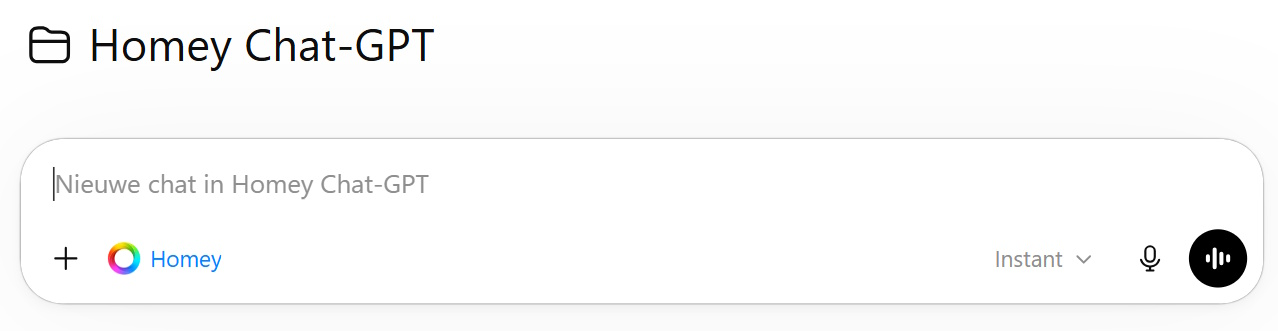
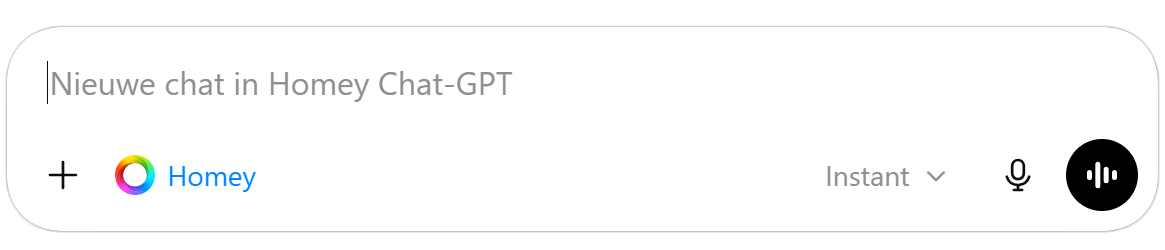
Wat je hebt gemist pagina aangemaakt.

diff --git a/wat-je-hebt-gemist.html b/wat-je-hebt-gemist.html
@@ -1,0 +1,380 @@
+<!doctype html>
+<html lang="nl">
+<head>
+  <meta charset="utf-8">
+  <meta name="viewport" content="width=device-width, initial-scale=1">
+  <meta name="hv-schema-type" content="techarticle">
+
+  <title>Wat je hebt gemist | huisvanvandaag.nl</title>
+  <meta name="description" content="Een overzicht van populaire Homey-artikelen, DIY-projecten, tutorials en slimme woningideeën op Huisvanvandaag.">
+  <link rel="preconnect" href="https://fonts.googleapis.com">
+  <link rel="preconnect" href="https://fonts.gstatic.com" crossorigin>
+  <link href="https://fonts.googleapis.com/css2?family=Inter:wght@400;500;600;700;800;900&display=swap" rel="stylesheet">
+  <link rel="icon" type="image/png" href="assets/favicon.png">
+  <link rel="stylesheet" href="styles.css">
+  <style>
+    .article-grid {
+      display: grid;
+      grid-template-columns: repeat(auto-fit, minmax(280px, 1fr));
+      gap: 1.4rem;
+      margin-top: 1.5rem;
+    }
+
+    .article-card {
+      display: flex;
+      flex-direction: column;
+      background: rgba(255,255,255,0.04);
+      border-radius: 22px;
+      overflow: hidden;
+      border: 1px solid rgba(255,255,255,0.08);
+      height: 100%;
+    }
+
+    .article-card-image img {
+      width: 100%;
+      aspect-ratio: 16 / 9;
+      object-fit: cover;
+      display: block;
+    }
+
+    .article-card-body {
+      padding: 1.1rem;
+      display: flex;
+      flex-direction: column;
+      gap: .9rem;
+      height: 100%;
+    }
+
+    .article-card h2 {
+      margin: 0;
+      font-size: 1.3rem;
+      line-height: 1.25;
+    }
+
+    .article-card h2 a {
+      color: inherit;
+      text-decoration: none;
+    }
+
+    .article-card .meta-list {
+      gap: .5rem;
+    }
+
+    .article-card .button-secondary {
+      margin-top: auto;
+      align-self: flex-start;
+    }
+
+    .category-intro {
+      max-width: 820px;
+      margin-top: 2.6rem;
+    }
+
+    .category-intro:first-child {
+      margin-top: 0;
+    }
+
+    .category-intro h2 {
+      margin-bottom: .35rem;
+    }
+
+    .quick-links {
+      display: flex;
+      flex-wrap: wrap;
+      gap: .75rem;
+      margin-top: 1.4rem;
+    }
+  </style>
+<script src="/js/global-schema.js"></script>
+</head>
+<body>
+  <div id="site-header"></div>
+
+  <main>
+    <section class="page-hero">
+      <div class="container two-col">
+        <div>
+          <div class="breadcrumbs">
+            <a href="index.html">Home</a>
+            <span>•</span>
+            <span>Wat je hebt gemist</span>
+          </div>
+          <span class="eyebrow">Startpunt</span>
+          <h1>Wat je hebt gemist</h1>
+          <p class="lead muted">
+            Even niet alles gevolgd? Geen probleem. Op deze pagina vind je een compacte selectie van Homey-artikelen, DIY-projecten, tutorials en slimme woningideeën die goed laten zien waar Huisvanvandaag om draait.
+            <br><br>
+            Begin bij de basis, duik in een concreet project of klik door naar een onderwerp dat past bij jouw huis. Zo ben je snel weer bij zonder de hele website te hoeven doorzoeken.
+          </p>
+
+          <div class="quick-links">
+            <a class="button-secondary" href="#homey">Homey &amp; slimme woning</a>
+            <a class="button-secondary" href="#diy">DIY-projecten</a>
+            <a class="button-secondary" href="#tutorials">Tutorials &amp; flows</a>
+            <a class="button-secondary" href="#inspiratie">Inspiratie</a>
+          </div>
+        </div>
+
+        <div class="panel">
+          <h3>Wat je hier vindt</h3>
+          <div class="check-list">
+            <div class="check-item">
+              <span class="check-mark">✓</span>
+              <div><strong>Een snelle herstart</strong><br><span class="muted">Handig als je de nieuwsbrief al een tijd niet hebt ontvangen.</span></div>
+            </div>
+            <div class="check-item">
+              <span class="check-mark">✓</span>
+              <div><strong>Breed gekozen</strong><br><span class="muted">Van Homey en ChatGPT tot CO₂, radar, energieflows en Homeyduino.</span></div>
+            </div>
+            <div class="check-item">
+              <span class="check-mark">✓</span>
+              <div><strong>Direct doorklikbaar</strong><br><span class="muted">Elke kaart brengt je naar een artikel, project of overzichtspagina.</span></div>
+            </div>
+          </div>
+        </div>
+      </div>
+    </section>
+
+    <section class="section-tight" id="homey">
+      <div class="container">
+        <div class="category-intro">
+          <span class="eyebrow">Homey &amp; slimme woning</span>
+          <h2>Begin bij de slimme basis</h2>
+          <p class="muted">Voor veel lezers begint Huisvanvandaag bij Homey: flows, apparaten, automatiseringen en de vraag hoe je een woning slimmer laat aanvoelen zonder het onnodig ingewikkeld te maken.</p>
+        </div>
+
+        <div class="article-grid">
+          <article class="article-card">
+            <a class="article-card-image" href="homey-chatgpt.html">
+              <img src="assets/header/homey-chatgpt-hero.png" alt="Homey en ChatGPT als nieuwe manier om je slimme woning aan te sturen" loading="lazy">
+            </a>
+            <div class="article-card-body">
+              <span class="eyebrow">Homey • ChatGPT</span>
+              <h2><a href="homey-chatgpt.html">Homey nu beschikbaar in ChatGPT</a></h2>
+              <p class="muted">Wat als je je slimme woning niet meer hoeft te programmeren, maar er gewoon mee kunt praten? Dit artikel laat zien waarom Homey en ChatGPT samen interessant zijn.</p>
+              <div class="meta-list">
+                <span class="meta-pill">Categorie: Smart home</span>
+                <span class="meta-pill">Platform: Homey / ChatGPT</span>
+              </div>
+              <a class="button-secondary" href="homey-chatgpt.html">Lees artikel</a>
+            </div>
+          </article>
+
+          <article class="article-card">
+            <a class="article-card-image" href="homey.html">
+              <img src="assets/header/homey-uitgelegd-varianten-overzicht.jpg" alt="Overzicht van Homey artikelen en slimme woning toepassingen" loading="lazy">
+            </a>
+            <div class="article-card-body">
+              <span class="eyebrow">Homey</span>
+              <h2><a href="homey.html">Homey uitgelegd</a></h2>
+              <p class="muted">Een handig startpunt als je meer wilt halen uit Homey, flows en slimme automatiseringen in huis.</p>
+              <div class="meta-list">
+                <span class="meta-pill">Categorie: Kennisbank</span>
+                <span class="meta-pill">Platform: Homey</span>
+              </div>
+              <a class="button-secondary" href="homey.html">Bekijk overzicht</a>
+            </div>
+          </article>
+
+          <article class="article-card">
+            <a class="article-card-image" href="zonne-flows-homey-tutorial.html">
+              <img src="assets/header/zonne-flows-homey-hero.jpg" alt="Homey flow voor slimmer omgaan met zonnestroom" loading="lazy">
+            </a>
+            <div class="article-card-body">
+              <span class="eyebrow">Energie • Homey</span>
+              <h2><a href="zonne-flows-homey-tutorial.html">Energie-automatiseringen die daadwerkelijk iets besparen</a></h2>
+              <p class="muted">Gebruik Homey niet alleen voor gemak, maar ook om slimmer om te gaan met momenten waarop zonnestroom beschikbaar is.</p>
+              <div class="meta-list">
+                <span class="meta-pill">Categorie: Tutorial</span>
+                <span class="meta-pill">Platform: Homey</span>
+              </div>
+              <a class="button-secondary" href="zonne-flows-homey-tutorial.html">Bekijk tutorial</a>
+            </div>
+          </article>
+        </div>
+      </div>
+    </section>
+
+    <section class="section-tight" id="diy">
+      <div class="container">
+        <div class="category-intro">
+          <span class="eyebrow">DIY &amp; Homeyduino</span>
+          <h2>Zelf sensoren bouwen voor je slimme huis</h2>
+          <p class="muted">Een van de leukste kanten van smart home is dat je niet hoeft te wachten tot een fabrikant precies maakt wat jij nodig hebt. Met Homeyduino, ESP32 en betaalbare sensoren kun je veel zelf oplossen.</p>
+        </div>
+
+        <div class="article-grid">
+          <article class="article-card">
+            <a class="article-card-image" href="homeyduino-ld2410-aanwezigheidssensor.html">
+              <img src="assets/header/LD2410-homeyduino-sensor-hero-2.jpg" alt="LD2410 aanwezigheidssensor met ESP32 en Homeyduino" loading="lazy">
+            </a>
+            <div class="article-card-body">
+              <span class="eyebrow">DIY smart home project</span>
+              <h2><a href="homeyduino-ld2410-aanwezigheidssensor.html">LD2410 aanwezigheidssensor maken met Homeyduino en ESP32</a></h2>
+              <p class="muted">Een sensor die niet alleen beweging ziet, maar ook aanwezigheid detecteert wanneer iemand stil op de bank zit.</p>
+              <div class="meta-list">
+                <span class="meta-pill">Categorie: DIY sensor</span>
+                <span class="meta-pill">Hardware: ESP32 + LD2410</span>
+              </div>
+              <a class="button-secondary" href="homeyduino-ld2410-aanwezigheidssensor.html">Bekijk project</a>
+            </div>
+          </article>
+
+          <article class="article-card">
+            <a class="article-card-image" href="homeyduino-co2-sensor.html">
+              <img src="assets/header/homeyduino-co2-sensor-hero.jpg" alt="Zelfgebouwde CO2 sensor met MH-Z19B en Wemos D1 Mini voor Homeyduino" loading="lazy">
+            </a>
+            <div class="article-card-body">
+              <span class="eyebrow">DIY • Binnenklimaat</span>
+              <h2><a href="homeyduino-co2-sensor.html">Bouw je eigen slimme CO₂-sensor met Homeyduino</a></h2>
+              <p class="muted">Meet CO₂ in huis en gebruik die waarde als praktische aanleiding om slimmer te ventileren.</p>
+              <div class="meta-list">
+                <span class="meta-pill">Categorie: Binnenklimaat</span>
+                <span class="meta-pill">Hardware: MH-Z19B + Wemos D1 Mini</span>
+              </div>
+              <a class="button-secondary" href="homeyduino-co2-sensor.html">Bekijk project</a>
+            </div>
+          </article>
+
+          <article class="article-card">
+            <a class="article-card-image" href="homeyduino-clapper-switch.html">
+              <img src="assets/header/clapper-switch-homey.jpg" alt="Illustratie van de originele Clapper naast een moderne smart-home speaker en lamp" loading="lazy">
+            </a>
+            <div class="article-card-body">
+              <span class="eyebrow">DIY project • Homeyduino</span>
+              <h2><a href="homeyduino-clapper-switch.html">Bouw je eigen ‘Clapper’ switch met Homeyduino</a></h2>
+              <p class="muted">Een knipoog naar klassieke domotica, maar dan gekoppeld aan Homey en bruikbaar in moderne flows.</p>
+              <div class="meta-list">
+                <span class="meta-pill">Categorie: DIY</span>
+                <span class="meta-pill">Hardware: Wemos D1 Mini + geluidssensor</span>
+              </div>
+              <a class="button-secondary" href="homeyduino-clapper-switch.html">Bekijk project</a>
+            </div>
+          </article>
+        </div>
+      </div>
+    </section>
+
+    <section class="section-tight" id="tutorials">
+      <div class="container">
+        <div class="category-intro">
+          <span class="eyebrow">Tutorials &amp; praktische stappen</span>
+          <h2>Van lezen naar doen</h2>
+          <p class="muted">Sommige artikelen zijn vooral bedoeld om direct iets werkend te krijgen: een flow, sensor, routine of instelling die je daarna verder kunt aanpassen aan je eigen woning.</p>
+        </div>
+
+        <div class="article-grid">
+            <div class="article-card-body">
+              <span class="eyebrow">Tutorials</span>
+              <h2><a href="tutorials.html">Eerste flows en routines</a></h2>
+              <p class="muted">Bekijk de tutorialpagina als je gericht wilt leren hoe je flows, routines en slimme toepassingen opbouwt.</p>
+              <div class="meta-list">
+                <span class="meta-pill">Categorie: Overzicht</span>
+                <span class="meta-pill">Platform: Homey / smart home</span>
+              </div>
+              <a class="button-secondary" href="tutorials.html">Bekijk tutorials</a>
+            </div>
+          </article>
+
+          <article class="article-card">
+            <a class="article-card-image" href="homeyduino-bh1750-lichtsensor-esp32.html">
+              <img src="assets/header/bh1750-lichtsensor-homeyduino-esp32-hero.jpg" alt="BH1750 lichtsensor aangesloten op een ESP32 DevKit voor Homeyduino" loading="lazy">
+            </a>
+            <div class="article-card-body">
+              <span class="eyebrow">DIY lichtsensor</span>
+              <h2><a href="homeyduino-bh1750-lichtsensor-esp32.html">BH1750 lichtsensor op ESP32 en Homeyduino maken</a></h2>
+              <p class="muted">Een praktische manier om lichtsterkte te meten en die waarde te gebruiken in slimme automatiseringen.</p>
+              <div class="meta-list">
+                <span class="meta-pill">Categorie: DIY sensor</span>
+                <span class="meta-pill">Hardware: ESP32 + BH1750</span>
+              </div>
+              <a class="button-secondary" href="homeyduino-bh1750-lichtsensor-esp32.html">Bekijk project</a>
+            </div>
+          </article>
+
+          <article class="article-card">
+            <a class="article-card-image" href="diy.html">
+              <img src="assets/header/homeyduino-4-kanaals-relais.jpg" alt="Overzicht van DIY smart-home projecten met Homeyduino" loading="lazy">
+            </a>
+            <div class="article-card-body">
+              <span class="eyebrow">DIY overzicht</span>
+              <h2><a href="diy.html">Alle DIY &amp; Homeyduino-projecten</a></h2>
+              <p class="muted">Wil je vooral bouwen? Dan is het complete DIY-overzicht waarschijnlijk de beste volgende stap.</p>
+              <div class="meta-list">
+                <span class="meta-pill">Categorie: Overzicht</span>
+                <span class="meta-pill">Platform: Homeyduino / ESP32</span>
+              </div>
+              <a class="button-secondary" href="diy.html">Bekijk DIY overzicht</a>
+            </div>
+          </article>
+        </div>
+      </div>
+    </section>
+
+    <section class="section-tight" id="inspiratie">
+      <div class="container">
+        <div class="category-intro">
+          <span class="eyebrow">Inspiratie</span>
+          <h2>Waarom slimme woningen blijven boeien</h2>
+          <p class="muted">Smart home gaat niet alleen over apparaten. Het gaat ook over ideeën: hoe technologie in huis voelt, wat vroeger toekomstmuziek was en welke toepassingen vandaag gewoon haalbaar zijn.</p>
+        </div>
+
+        <div class="article-grid">
+          <article class="article-card">
+            <a class="article-card-image" href="chriet-titulaer.html">
+              <img src="assets/header/chriet_titulaer.jpg" alt="Chriet Titulaer en het Huis van de Toekomst" loading="lazy">
+            </a>
+            <div class="article-card-body">
+              <span class="eyebrow">Inspiratie • Huis van de Toekomst</span>
+              <h2><a href="chriet-titulaer.html">Chriet Titulaer: voorspellingen die werkelijkheid zijn geworden</a></h2>
+              <p class="muted">Veel ideeën die ooit futuristisch leken, voelen inmiddels verrassend normaal. Precies dat maakt slimme woningen zo interessant.</p>
+              <div class="meta-list">
+                <span class="meta-pill">Categorie: Informatief</span>
+                <span class="meta-pill">Onderwerp: Smart home geschiedenis</span>
+              </div>
+              <a class="button-secondary" href="chriet-titulaer.html">Lees artikel</a>
+            </div>
+          </article>
+
+          <article class="article-card">
+            <a class="article-card-image" href="reviews.html">
+            </a>
+            <div class="article-card-body">
+              <span class="eyebrow">Reviews</span>
+              <h2><a href="reviews.html">Reviews en praktijkervaringen</a></h2>
+              <p class="muted">Bekijk welke producten en systemen interessant zijn als je je slimme woning verder wilt uitbreiden.</p>
+              <div class="meta-list">
+                <span class="meta-pill">Categorie: Reviews</span>
+                <span class="meta-pill">Onderwerp: Smart home producten</span>
+              </div>
+              <a class="button-secondary" href="reviews.html">Bekijk reviews</a>
+            </div>
+          </article>
+
+          <article class="article-card">
+            <a class="article-card-image" href="index.html">
+            </a>
+            <div class="article-card-body">
+              <span class="eyebrow">Startpagina</span>
+              <h2><a href="index.html">Verder kijken op Huisvanvandaag</a></h2>
+              <p class="muted">Nog niet gevonden wat je zoekt? Ga terug naar de startpagina en ontdek de nieuwste artikelen en projecten.</p>
+              <div class="meta-list">
+                <span class="meta-pill">Categorie: Overzicht</span>
+                <span class="meta-pill">Onderwerp: Smart home</span>
+              </div>
+              <a class="button-secondary" href="index.html">Naar de startpagina</a>
+            </div>
+          </article>
+        </div>
+      </div>
+    </section>
+  </main>
+
+  <div id="site-footer"></div>
+
+  <script src="include.js"></script>
+  <script src="script.js"></script>
+</body>
+</html>
+
+Codebestand gedownload.

diff --git a/homey-chatgpt.html b/homey-chatgpt.html
@@ -101,7 +101,7 @@
   <div class="container project-hero-media">
     <div class="panel">
       <figure>
-        <img src="assets/header/homey-chatgpt-hero.jpg" alt="Homey gekoppeld aan ChatGPT">
+        <img src="assets/header/homey-chatgpt-hero.png" alt="Homey gekoppeld aan ChatGPT">
         <figcaption class="muted small">
           Met Homey in ChatGPT wordt je slimme woning niet alleen bedienbaar, maar ook begrijpelijker.
         </figcaption>

diff --git a/informatief.html b/informatief.html
@@ -196,7 +196,7 @@
 <article class="article-card">
 
 <a class="article-card-image" href="homey-chatgpt.html">
-  <img src="assets/header/homey-chatgpt-hero.jpg" alt="Homey gekoppeld aan ChatGPT" loading="lazy">
+  <img src="assets/header/homey-chatgpt-hero.png" alt="Homey gekoppeld aan ChatGPT" loading="lazy">
 </a>
 
   <div class="article-card-body">
